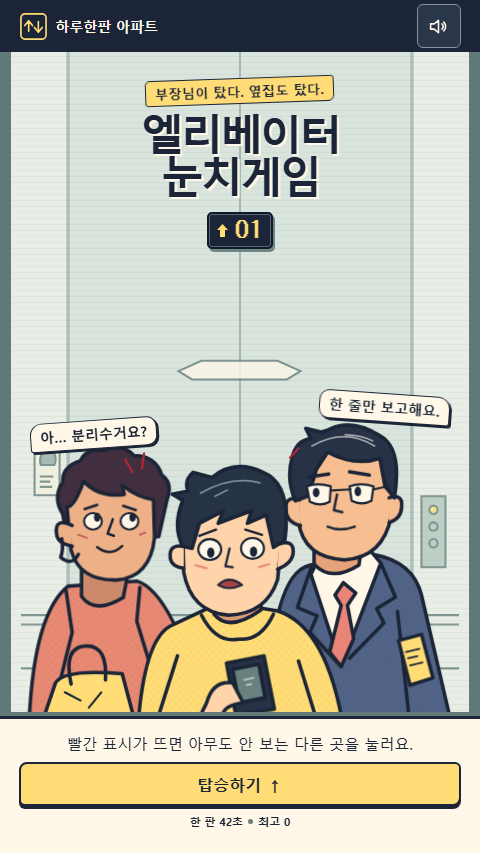
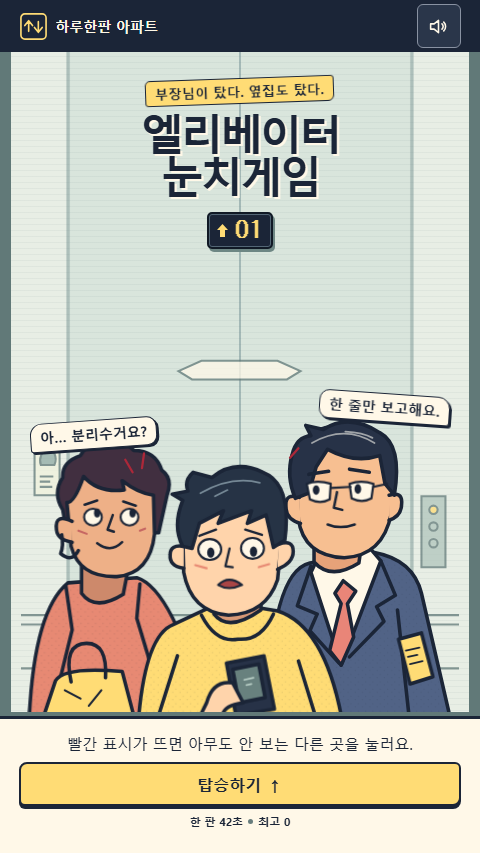
fix(elevator-awkward): drop breathe animation that glitched on Samsung Internet

diff --git a/play/items/elevator-awkward/index.html b/play/items/elevator-awkward/index.html
@@ -89,8 +89,7 @@
   #left-line { left: 2%; bottom: min(75cqh, 61cqw); }
   #right-line { right: 2%; bottom: min(82cqh, 67cqw); transform: rotate(4deg); border-radius: 10px 12px 3px 10px; }
   #art .person { transform-box: fill-box; transform-origin: 50% 100%; }
-  #art .neighbor { animation: breathe 3.1s ease-in-out infinite; }
-  #art .boss { animation: breathe 3.7s -.8s ease-in-out infinite; }
+  /* breathe animation removed: scaling these SVG groups rendered as noise blocks on Samsung Internet (Android GPU raster) */
   #art .pupil { transition: transform .18s ease-out; }
   #art[data-gaze="0"] .player .pupil, #art[data-neighbor="0"] .neighbor .pupil, #art[data-boss="0"] .boss .pupil { transform: translate(-3px, -2px); }
   #art[data-gaze="1"] .player .pupil, #art[data-neighbor="1"] .neighbor .pupil, #art[data-boss="1"] .boss .pupil { transform: translate(1px, 3px); }
